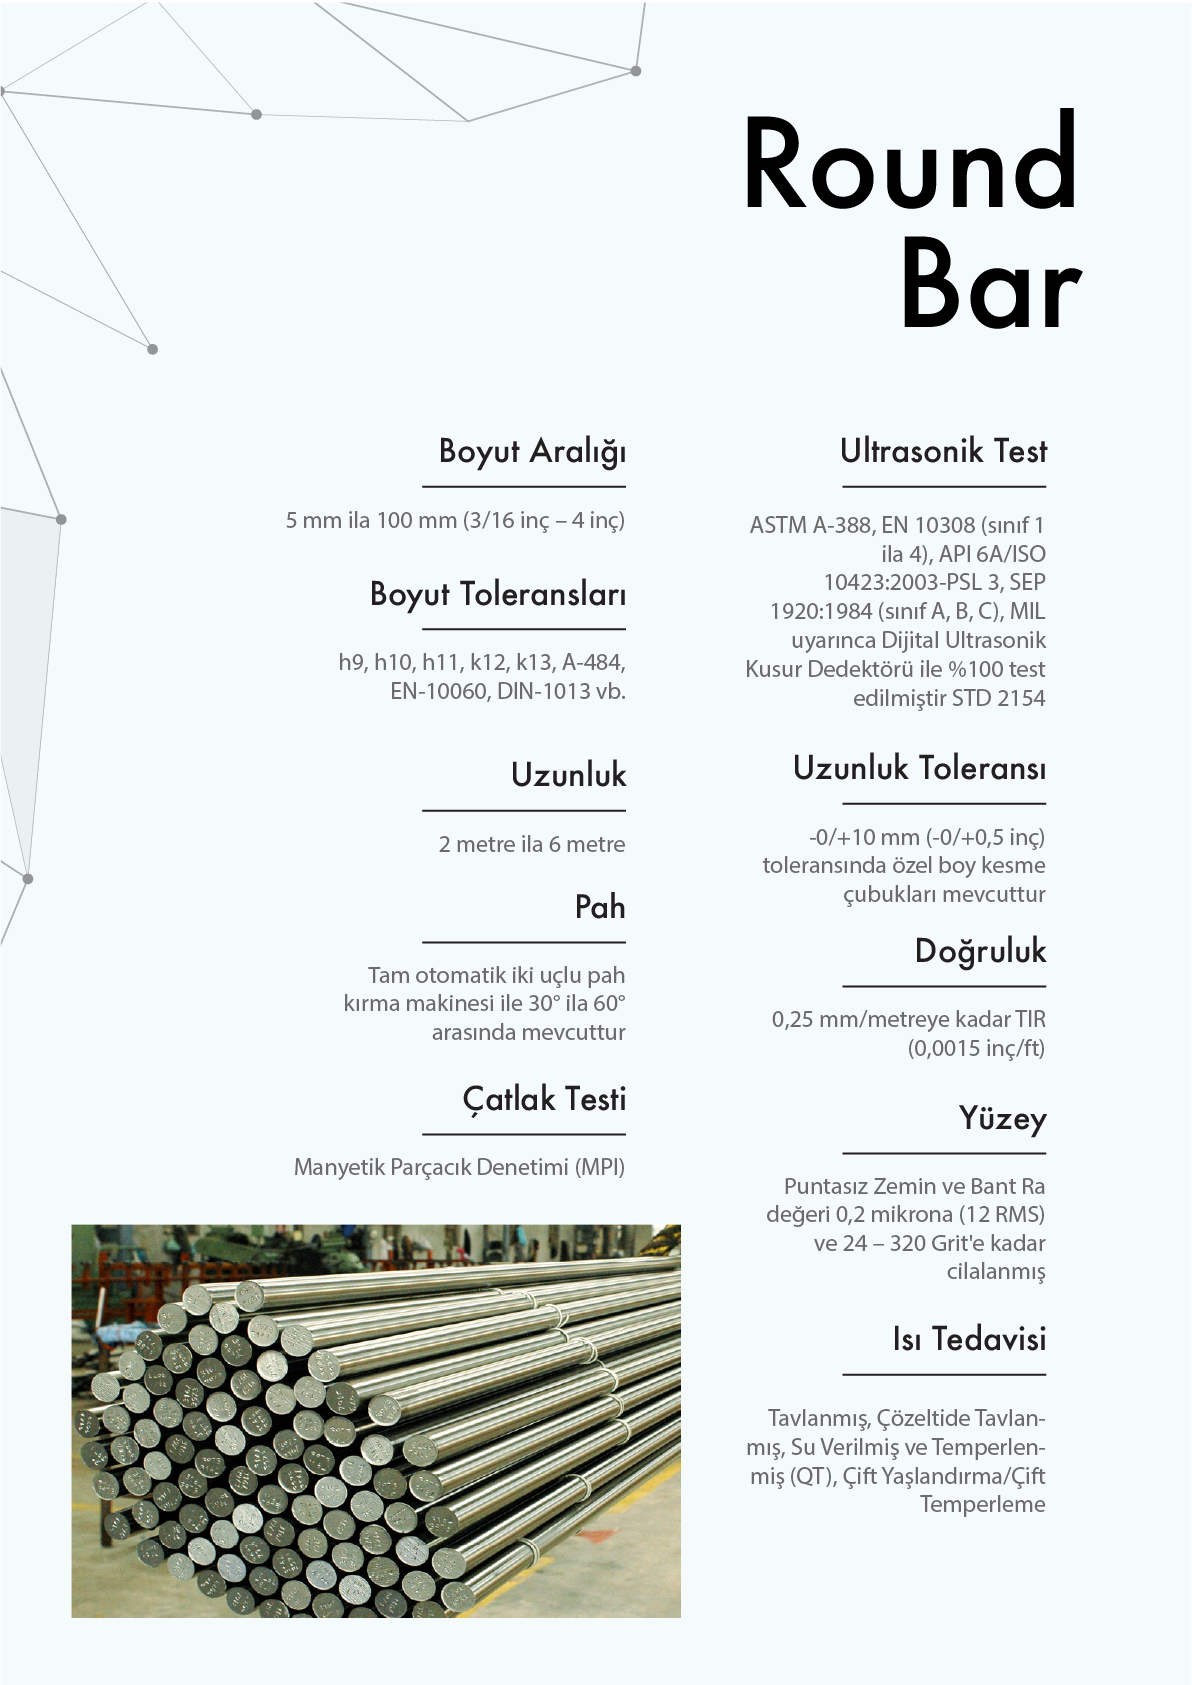
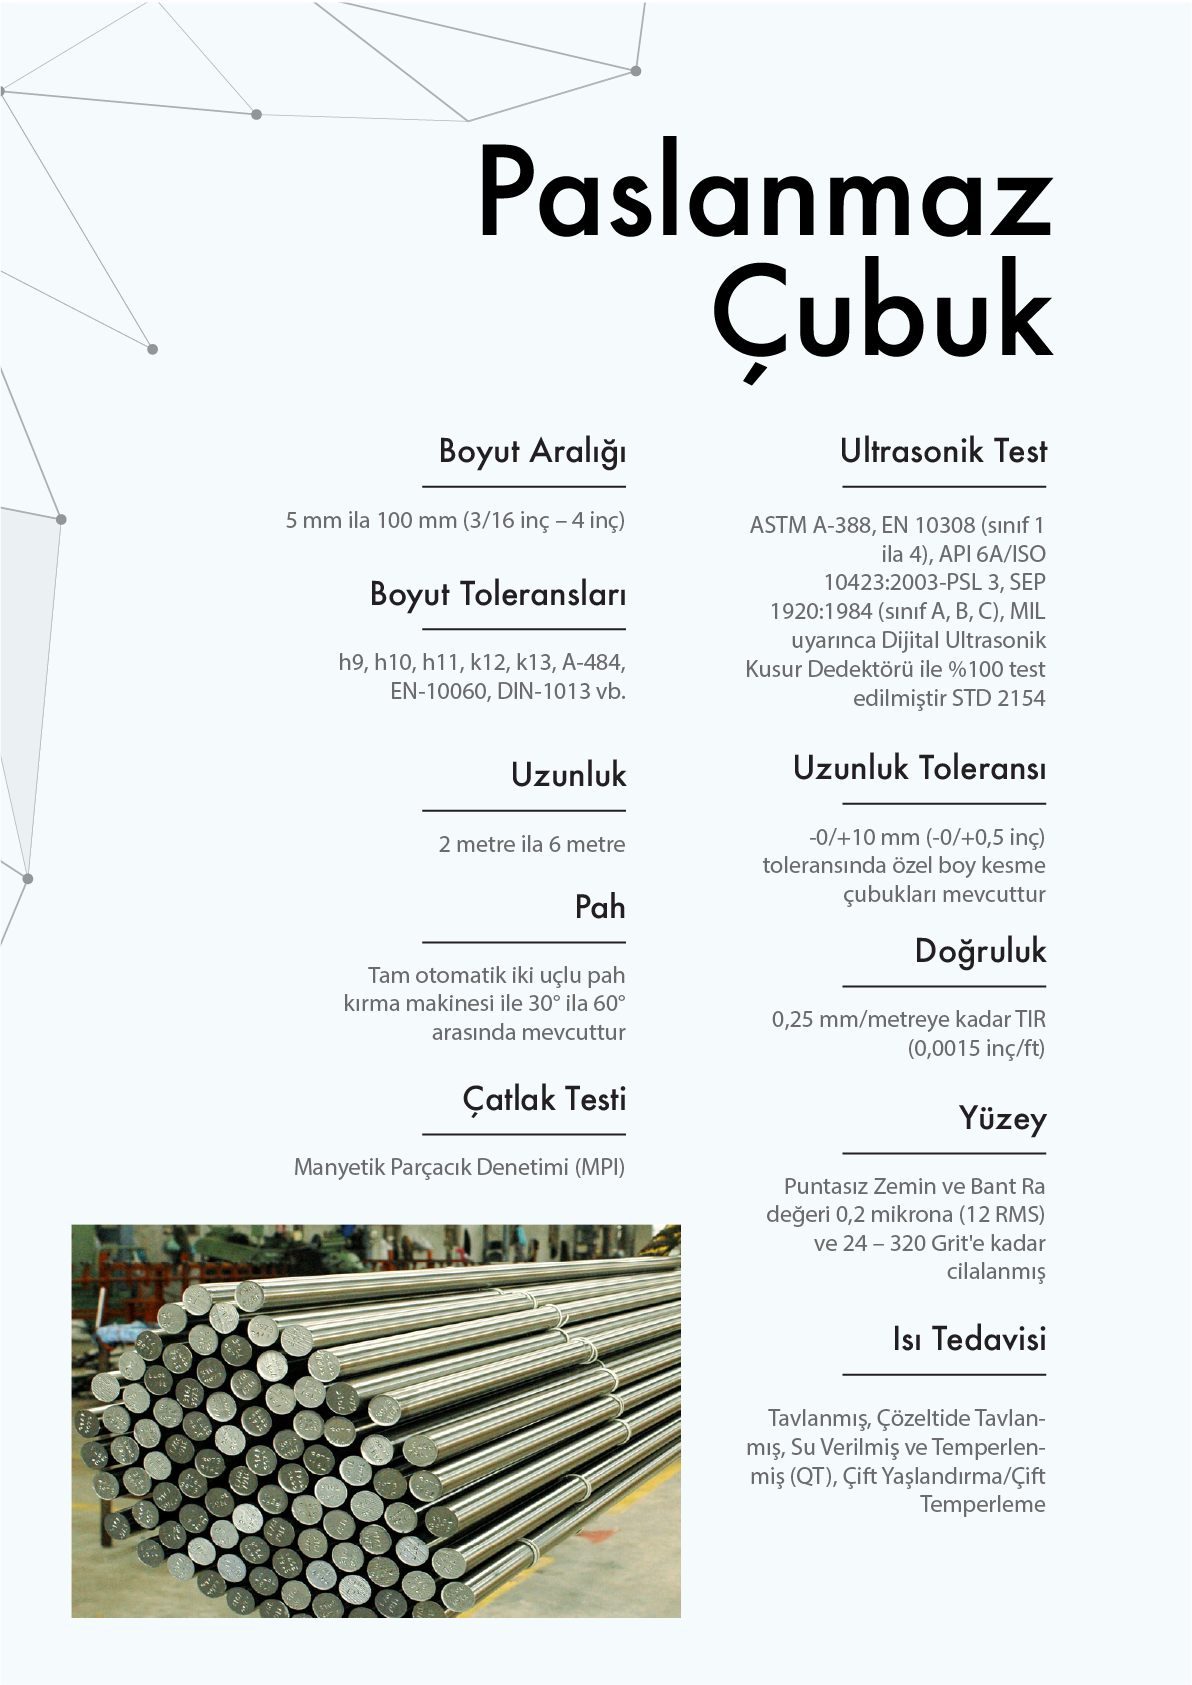
add/delete - paslanmaz boru profil

Changed region(s): [[0.4035, 0.0617, 0.9002, 0.2469]]

diff --git a/app/catalog/page.js b/app/catalog/page.js
@@ -52,23 +52,23 @@ const page = () => {
 					</button>
 					<button
 						className={`${
-							filter !== 'angle-bar'
+							filter !== 'paslanmaz-profil'
 								? 'bg-customWhite opacity-60 text-customPrimary/80'
 								: 'bg-customWhite text-customPrimary/100'
 						}  font-bold py-2 px-4  cursor-pointer text-xs md:text-base`}
-						onClick={() => setFilter('angle-bar')}
+						onClick={() => setFilter('paslanmaz-profil')}
 					>
-						Angle Bar
+						Paslanmaz Profil
 					</button>
 					<button
 						className={`${
-							filter !== 'paslanmaz-lama'
+							filter !== 'paslanmaz-boru'
 								? 'bg-customWhite opacity-60 text-customPrimary/80'
 								: 'bg-customWhite text-customPrimary/100'
 						}  font-bold py-2 px-4  cursor-pointer text-xs md:text-base`}
-						onClick={() => setFilter('paslanmaz-lama')}
+						onClick={() => setFilter('paslanmaz-boru')}
 					>
-						Paslanmaz Lama
+						Paslanmaz Boru
 					</button>
 					<button
 						className={`${
@@ -78,7 +78,7 @@ const page = () => {
 						}  font-bold py-2 px-4  cursor-pointer text-xs md:text-base`}
 						onClick={() => setFilter('round-bar')}
 					>
-						Round Bar
+						Paslanmaz Çubuk
 					</button>
 					<button
 						className={`${
@@ -120,24 +120,24 @@ const page = () => {
 						})}
 					</Carousel>
 				)}
-				{filter === 'angle-bar' && (
+				{filter === 'paslanmaz-boru' && (
 					<Carousel slide={false} className='h-screen pb-16' indicators={false}>
-						{AngleBar.map((item, i) => {
-							return React.cloneElement(item, { key: 'f' + i });
+						{PaslanmazBoru.map((item, i) => {
+							return React.cloneElement(item, { key: 'ab' + i });
 						})}
 					</Carousel>
 				)}
 				{filter === 'round-bar' && (
 					<Carousel slide={false} className='h-screen pb-16' indicators={false}>
 						{RoundBar.map((item, i) => {
-							return React.cloneElement(item, { key: 'f' + i });
+							return React.cloneElement(item, { key: 'rb' + i });
 						})}
 					</Carousel>
 				)}
-				{filter === 'paslanmaz-lama' && (
+				{filter === 'paslanmaz-profil' && (
 					<Carousel slide={false} className='h-screen pb-16' indicators={false}>
-						{PaslanmazLama.map((item, i) => {
-							return React.cloneElement(item, { key: 'f' + i });
+						{PaslanmazProfil.map((item, i) => {
+							return React.cloneElement(item, { key: 'pl' + i });
 						})}
 					</Carousel>
 				)}
@@ -157,11 +157,6 @@ const Hakkimizda = () => (
 const Ostenitik = [
 	<img
 		src='/katalog/o-ana@2x.png'
-		alt='...'
-		className='w-full h-full select-none object-contain'
-	/>,
-	<img
-		src='/katalog/Östenitik@2x.png'
 		alt='...'
 		className='w-full h-full select-none object-contain'
 	/>,
@@ -221,6 +216,11 @@ const Ostenitik = [
 		alt='...'
 		className='w-full h-full select-none object-contain'
 	/>,
+	<img
+		src='/katalog/Östenitik@2x.png'
+		alt='...'
+		className='w-full h-full select-none object-contain'
+	/>,
 ];
 
 const Ferritik = [
@@ -229,11 +229,7 @@ const Ferritik = [
 		alt='...'
 		className='w-full h-full select-none object-contain'
 	/>,
-	<img
-		src='/katalog/tablo-1.png'
-		alt='...'
-		className='w-full h-full select-none object-contain'
-	/>,
+
 	<img
 		src='/katalog/f-1@2x.png'
 		alt='...'
@@ -259,11 +255,16 @@ const Ferritik = [
 		alt='...'
 		className='w-full h-full select-none object-contain'
 	/>,
+	<img
+		src='/katalog/tablo-1.png'
+		alt='...'
+		className='w-full h-full select-none object-contain'
+	/>,
 ];
 
-const AngleBar = [
+const PaslanmazBoru = [
 	<img
-		src='/katalog/Angle Bar@2x.png'
+		src='/katalog/paslanmaz-boru@2x.png'
 		alt='...'
 		className='w-full h-full select-none object-contain'
 	/>,
@@ -277,9 +278,9 @@ const RoundBar = [
 	/>,
 ];
 
-const PaslanmazLama = [
+const PaslanmazProfil = [
 	<img
-		src='/katalog/Paslanmaz Lama@2x.png'
+		src='/katalog/paslanmaz-profil@2x.png'
 		alt='...'
 		className='w-full h-full select-none object-contain'
 	/>,
